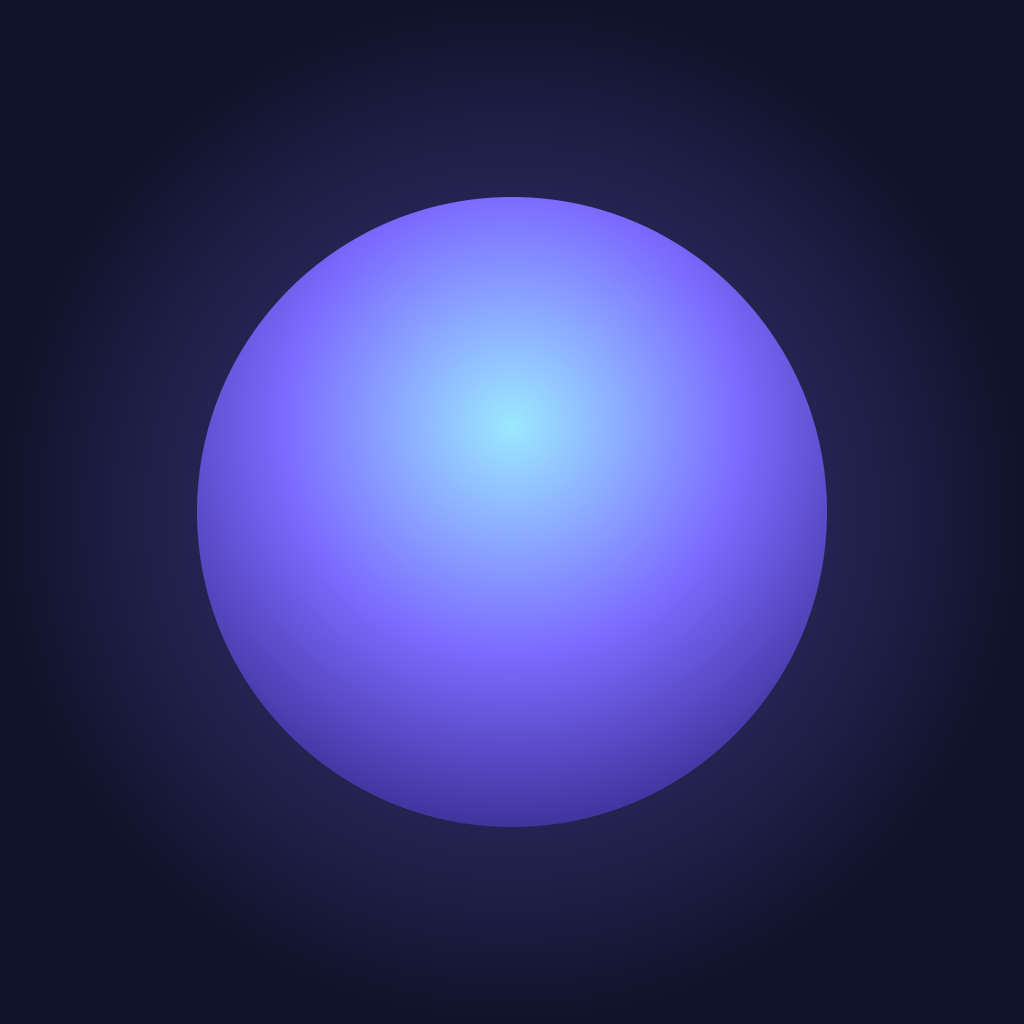
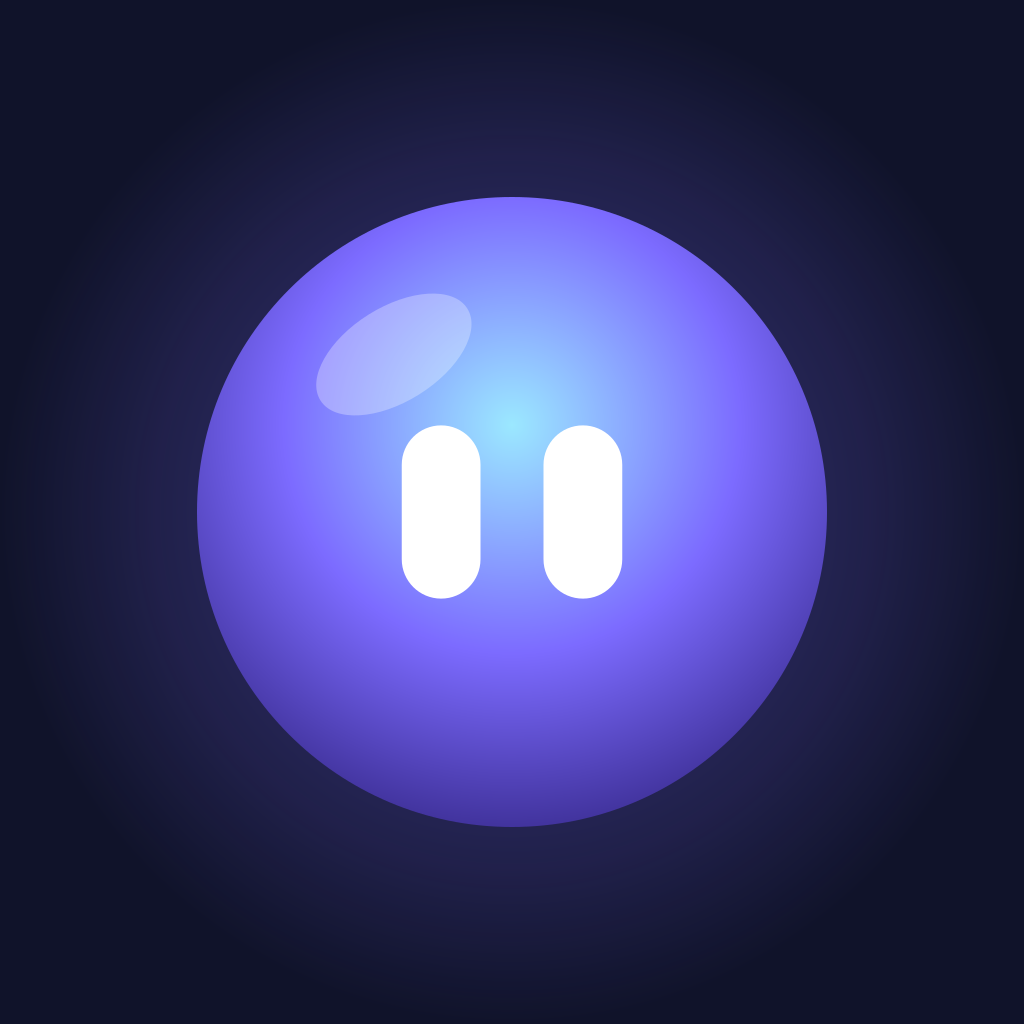
feat(app): prepare the mac mini build with ota, face id and lumi's face
The next native build is the one that moves Lumi to the Mac mini, and
everything E16 needs later should arrive by OTA, so this build has to
carry the native parts now: expo-updates (fingerprint runtime, so an
update only reaches builds with matching native code) and
expo-local-authentication for approvals. The production profile no
longer falls back to the demo. Pushes now show while the app is open,
except for the chat already on screen, where the reply appears in
place. The icon becomes the approved Lumi character, since icons
cannot ship by OTA. ios/ is committed, so prebuild was rerun to carry
the new plugins into the native project.

Changed region(s): [[0.3125, 0.2812, 0.4688, 0.5938], [0.5312, 0.4062, 0.625, 0.5938]]

diff --git a/src/app/chat/[id].tsx b/src/app/chat/[id].tsx
@@ -1,7 +1,8 @@
-import React, { useEffect, useState } from 'react';
+import React, { useCallback, useEffect, useState } from 'react';
 import { ActionSheetIOS, Alert, FlatList, KeyboardAvoidingView, Linking, Text, View, useWindowDimensions } from 'react-native';
 import { SafeAreaView } from 'react-native-safe-area-context';
-import { Stack, useLocalSearchParams } from 'expo-router';
+import { Stack, useFocusEffect, useLocalSearchParams } from 'expo-router';
+import { setActiveTopic } from '@/chat/foreground';
 import { useChat } from '@/chat/ChatProvider';
 import { useTheme } from '@/theme/ThemeContext';
 import { Message, Status } from '@/chat/types';
@@ -46,6 +47,7 @@ export default function ChatScreen() {
   const messages = chat.messages.filter(m => m.topicId === id);
   const [before, setBefore] = useState<string>(), [loading, setLoading] = useState(false);
   useEffect(() => { if (chat.linked) void chat.load(id).then(setBefore).catch(() => {}); /* on entering this topic */ }, [id, chat.linked]); // eslint-disable-line react-hooks/exhaustive-deps
+  useFocusEffect(useCallback(() => { setActiveTopic(id); return () => setActiveTopic(null); }, [id]));
   const lastId = messages.at(-1)?.id;
   useEffect(() => { if (lastId && chat.linked) void chat.read(id, lastId).catch(() => {}); }, [id, lastId, chat.linked]); // eslint-disable-line react-hooks/exhaustive-deps
   return <SafeAreaView edges={['bottom']} style={{ flex: 1 }}><Stack.Screen options={{ headerBackButtonDisplayMode: 'minimal', title: topic?.title || 'Conversación', headerTitle: fontScale > 1.15 ? (topic?.title || 'Conversación') : () => <View><Text style={{ color: palette.text, fontWeight: '600', fontSize: 17 }}>{topic?.title || 'Conversación'}</Text>{fontScale <= 1.15 && <Text style={{ color: palette.textMuted, fontSize: 12 }}>Tu asistente personal</Text>}</View>, headerRight: () => <IconButton name="doc.text" label="Reportes de la conversación" onPress={() => {

diff --git a/src/__tests__/release-config.test.ts b/src/__tests__/release-config.test.ts
@@ -1,0 +1,19 @@
+import app from '../../app.json';
+import eas from '../../eas.json';
+const expo = app.expo as Record<string, any>;
+const plugins = expo.plugins as (string | [string, Record<string, unknown>])[];
+const plugin = (name: string) => plugins.find(p => (Array.isArray(p) ? p[0] : p) === name);
+test('OTA updates point at this EAS project and only reach builds with the same native code', () => {
+  expect(expo.updates?.url).toBe(`https://u.expo.dev/${expo.extra.eas.projectId}`);
+  expect(expo.runtimeVersion).toEqual({ policy: 'fingerprint' });
+});
+test('every installable profile has an update channel', () => {
+  for (const name of ['preview', 'preview-connected', 'production'] as const) expect((eas.build as Record<string, { channel?: string }>)[name].channel).toBeTruthy();
+});
+test('production talks to the real server instead of falling back to the demo', () => {
+  expect((eas.build.production as { env?: Record<string, string> }).env?.EXPO_PUBLIC_CHAT_MODE).toBe('http');
+});
+test('Face ID ships in the native build so approvals can arrive later by OTA', () => {
+  const auth = plugin('expo-local-authentication');
+  expect(Array.isArray(auth) && typeof auth[1].faceIDPermission === 'string' && (auth[1].faceIDPermission as string).length > 20).toBe(true);
+});

diff --git a/src/chat/__tests__/foreground.test.ts b/src/chat/__tests__/foreground.test.ts
@@ -1,0 +1,14 @@
+import { foregroundBehavior } from '../foreground';
+const topic = 'a2156936-088a-4df5-aa38-b87f4edaa802', other = 'b2156936-088a-4df5-aa38-b87f4edaa802';
+const shown = { shouldShowBanner: true, shouldShowList: true, shouldPlaySound: true, shouldSetBadge: false };
+const quiet = { shouldShowBanner: false, shouldShowList: false, shouldPlaySound: false, shouldSetBadge: false };
+test('with the app open, a push from another chat still shows as a banner', () => {
+  expect(foregroundBehavior({ topicId: topic }, other)).toEqual(shown);
+  expect(foregroundBehavior({ topicId: topic }, null)).toEqual(shown);
+});
+test('a push for the chat on screen stays quiet: the reply appears there by itself', () => {
+  expect(foregroundBehavior({ topicId: topic }, topic)).toEqual(quiet);
+});
+test('pushes without a valid chat id are shown, never silently dropped', () => {
+  for (const data of [undefined, {}, { topicId: 42 }, { topicId: 'not-a-uuid' }]) expect(foregroundBehavior(data, topic)).toEqual(shown);
+});

diff --git a/src/chat/foreground.ts b/src/chat/foreground.ts
@@ -1,0 +1,10 @@
+import type { NotificationBehavior } from 'expo-notifications';
+// The chat on screen, so a push for it does not interrupt: its reply appears in place.
+let active: string | null = null;
+export const setActiveTopic = (id: string | null) => { active = id; };
+export const activeTopic = () => active;
+export function foregroundBehavior(data: Record<string, unknown> | undefined, onScreen: string | null): NotificationBehavior {
+  const id = data?.topicId;
+  const same = typeof id === 'string' && /^[0-9a-f-]{36}$/i.test(id) && id === onScreen;
+  return { shouldShowBanner: !same, shouldShowList: !same, shouldPlaySound: !same, shouldSetBadge: false };
+}

diff --git a/src/app/_layout.tsx b/src/app/_layout.tsx
@@ -6,7 +6,10 @@ import * as Notifications from 'expo-notifications';
 import * as SplashScreen from 'expo-splash-screen';
 import { ThemeProvider, useTheme } from '@/theme/ThemeContext';
 import { ChatProvider } from '@/chat/ChatProvider';
+import { activeTopic, foregroundBehavior } from '@/chat/foreground';
 export const unstable_settings = { initialRouteName: 'index' };
+// Without a handler iOS hides every push while Lumi is open.
+Notifications.setNotificationHandler({ handleNotification: async n => foregroundBehavior(n.request.content.data, activeTopic()) });
 function Navigation() {
   const { palette, theme } = useTheme();
   useEffect(() => {
